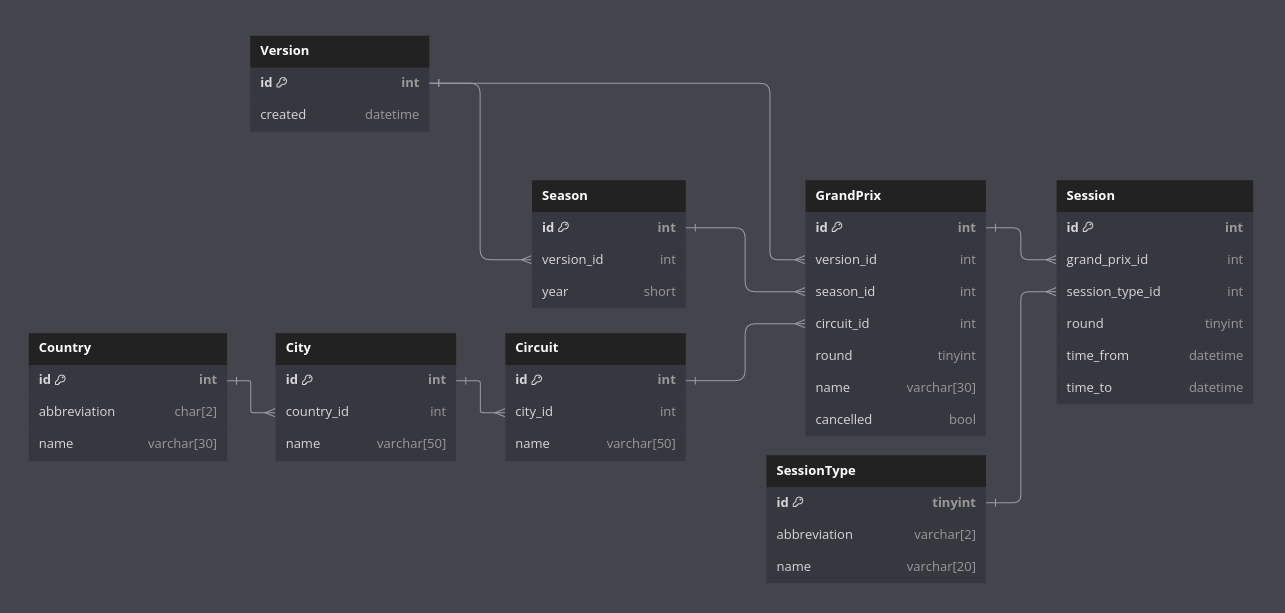
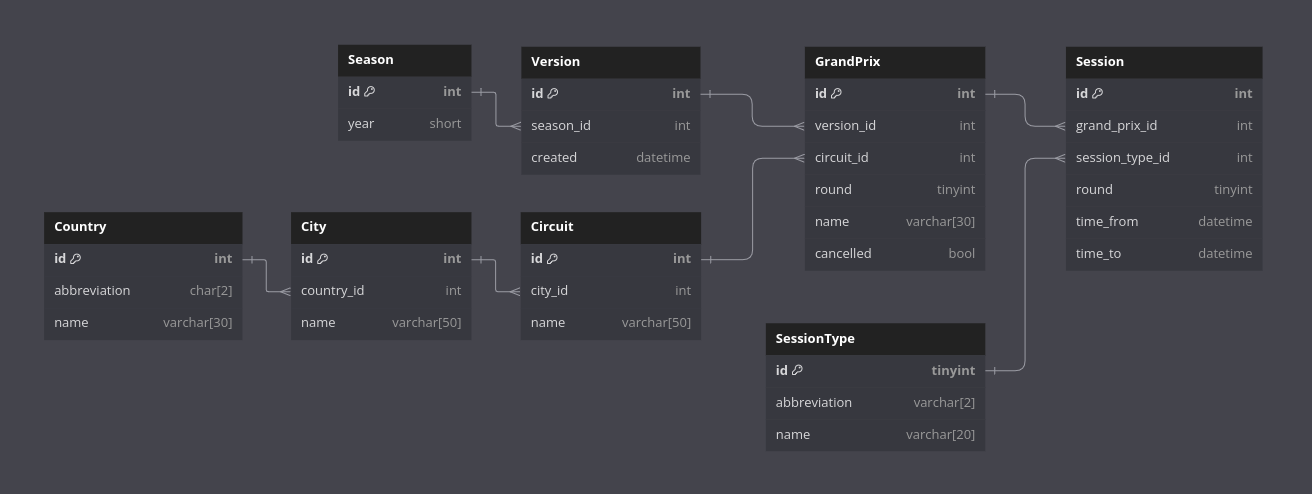
simplified database model
added CountryModel
init SessionFactory on launch

diff --git a/src/main/java/sk/f1api/f1api/entity/Version.java b/src/main/java/sk/f1api/f1api/entity/Version.java
@@ -24,8 +24,12 @@ public class Version implements Identifiable {
     @GeneratedValue(strategy = GenerationType.IDENTITY)
     private int id;
 
-    @OneToOne(mappedBy = "version", cascade = CascadeType.ALL)
+    @ManyToOne(cascade = CascadeType.ALL)
+    @JoinColumn(name = "season_id")
     private Season season;
+
+    @OneToMany(mappedBy = "version", cascade = CascadeType.ALL)
+    private List<GrandPrix> grandPrixes;
 
     @Column(nullable = false)
     private LocalDateTime created;
@@ -65,7 +69,7 @@ public class Version implements Identifiable {
     }
 
     public void removeDuplicity() {
-        List<GrandPrix> grandPrixes = season.getGrandPrixes();
+        List<GrandPrix> grandPrixes = this.getGrandPrixes();
 
         for (int i = 0; i < grandPrixes.size(); i++) {
             GrandPrix grandPrixI = grandPrixes.get(i);
@@ -90,8 +94,26 @@ public class Version implements Identifiable {
                 if (!grandPrixJ.getCircuit().getName().equals(grandPrixI.getCircuit().getName())) {
                     continue;
                 }
+
                 grandPrixJ.setCircuit(grandPrixI.getCircuit());
             }
         }
+    }
+
+
+
+    @Override
+    public String toString() {
+        String grandPrixesConcated = "";
+        if (grandPrixes == null || grandPrixes.isEmpty()) {
+            grandPrixesConcated = "null";
+        } else {
+            for (GrandPrix grandPrix : grandPrixes) {
+                grandPrixesConcated += grandPrix + ", ";
+            }
+            grandPrixesConcated = grandPrixesConcated.substring(0, grandPrixesConcated.length() - 3);
+        }
+
+        return String.format("Season(id='%s', created='%s', grandPrixes=[%s])", id, created, grandPrixesConcated);
     }
 }

diff --git a/src/main/java/sk/f1api/f1api/entity/Season.java b/src/main/java/sk/f1api/f1api/entity/Season.java
@@ -22,11 +22,7 @@ public class Season implements Identifiable {
     private int id;
 
     @OneToMany(mappedBy = "season", cascade = CascadeType.ALL)
-    private List<GrandPrix> grandPrixes;
-
-    @ManyToOne
-    @JoinColumn(name = "version_id")
-    private Version version;
+    private List<Version> versions;
 
     @Column(nullable = false, columnDefinition = "SMALLINT")
     private Short year;
@@ -39,8 +35,7 @@ public class Season implements Identifiable {
 
         criteria.select(root).where(
             cb.and(
-                cb.equal(root.get("year"), year), 
-                cb.equal(root.get("version"), version)
+                cb.equal(root.get("year"), year)
             )
         );
 
@@ -52,10 +47,25 @@ public class Season implements Identifiable {
         CriteriaQuery<Season> criteriaQuery = criteriaBuilder.createQuery(Season.class);
         Root<Season> root = criteriaQuery.from(Season.class);
 
-        root.fetch("grandPrixes", JoinType.LEFT);
+        root.fetch("versions", JoinType.LEFT);
 
         criteriaQuery.select(root);
 
         return session.createQuery(criteriaQuery).getResultList();
+    }
+
+    @Override
+    public String toString() {
+        String versionsConcated = "";
+        if (versions == null || versions.isEmpty()) {
+            versionsConcated = "null";
+        } else {
+            for (Version version : versions) {
+                versionsConcated += version + ", ";
+            }
+            versionsConcated = versionsConcated.substring(0, versionsConcated.length() - 3);
+        }
+
+        return String.format("Season(id='%s', year='%d', versions=[%s])", id, year, versionsConcated);
     }
 }

diff --git a/src/main/java/sk/f1api/f1api/scrapper/Scrapper.java b/src/main/java/sk/f1api/f1api/scrapper/Scrapper.java
@@ -11,6 +11,7 @@ import java.util.AbstractMap;
 import java.util.Map;
 import java.util.Properties;
 import java.util.ArrayList;
+import java.util.Arrays;
 import java.util.List;
 
 import org.jsoup.Jsoup;
@@ -35,15 +36,15 @@ public class Scrapper {
 		
 		Calendar f1Calendar = new Calendar();
 
-		Version version = new Version();
 		Season season = new Season();
-		season.setVersion(version);
 		season.setYear(year);
+
+		Version version = new Version();
 		
 		List<GrandPrix> grandPrixes = new ArrayList<>(f1Wiki.getNumberOfRaces());
 
 		for (int i = 1; i < f1Wiki.getNumberOfRaces() + 1; i++) {
-			GrandPrix grandPrix = new GrandPrix(version, season, (byte) i);
+			GrandPrix grandPrix = new GrandPrix(version, (byte) i);
 			
 			f1Calendar.fillEvents(grandPrix, i);
 			f1Wiki.fillGrandPrix(grandPrix, i);
@@ -56,14 +57,14 @@ public class Scrapper {
 		}
 
 		version.setSeason(season);
-		season.setGrandPrixes(grandPrixes);
+		version.setGrandPrixes(grandPrixes);
 
 		version.removeDuplicity();
-		
-		for (GrandPrix grandPrix : grandPrixes) {
-			System.out.println(grandPrix);
-		}
 
+		season.setVersions(new ArrayList<>(Arrays.asList(version)));
+
+		System.out.println(season);
+		
 		version.save(HibernateUtil.getSessionFactory().openSession());
 	}
 

diff --git a/src/main/java/sk/f1api/f1api/entity/GrandPrix.java b/src/main/java/sk/f1api/f1api/entity/GrandPrix.java
@@ -25,10 +25,6 @@ public class GrandPrix {
     private Version version;
 
     @ManyToOne(cascade = CascadeType.ALL)
-    @JoinColumn(name = "season_id")
-    private Season season;
-
-    @ManyToOne(cascade = CascadeType.ALL)
     @JoinColumn(name = "circuit_id")
     private Circuit circuit;
 
@@ -49,8 +45,7 @@ public class GrandPrix {
         
     }
 
-    public GrandPrix(Version version, Season season, Byte round) {
-        this.season = season;
+    public GrandPrix(Version version, Byte round) {
         this.version = version;
         this.round = round;
         this.circuit = new Circuit();
@@ -68,7 +63,7 @@ public class GrandPrix {
             eventsConcated = eventsConcated.substring(0, eventsConcated.length() - 3);
         }
         
-        return String.format("GrandPrix(id='%s', round='%s', name='%s', cancelled='%s', version=%s, season=%s, circuit=%s, events=[%s])", id, round, name, cancelled, version, season, circuit, eventsConcated);
+        return String.format("GrandPrix(id='%s', round='%s', name='%s', cancelled='%s', circuit=%s, events=[%s])", id, round, name, cancelled, circuit, eventsConcated);
     }
 
     public void save(Session session) {

diff --git a/src/main/java/sk/f1api/f1api/model/CalendarModel.java b/src/main/java/sk/f1api/f1api/model/CalendarModel.java
@@ -1,27 +1,31 @@
 package sk.f1api.f1api.model;
 
 import java.util.ArrayList;
+import java.util.HashMap;
 import java.util.List;
 
 import lombok.Getter;
-import lombok.Setter;
 import sk.f1api.f1api.entity.Season;
+import sk.f1api.f1api.entity.Version;
 import sk.f1api.f1api.util.HibernateUtil;
 
 @Getter
-@Setter
 public class CalendarModel {
 
 	private int year;
 
-	private List<GrandPrixModel> grandPrixes;
+	private HashMap<Byte, GrandPrixModel> grandPrixes;
 
 	public CalendarModel(Season season) {
 		this.year = season.getYear();
-		this.grandPrixes = new ArrayList<GrandPrixModel>();
+		this.grandPrixes = new HashMap<>();
 		
-		if (season.getGrandPrixes() != null) {
-			season.getGrandPrixes().forEach(grandPrix -> this.grandPrixes.add(new GrandPrixModel(grandPrix)));
+		if (season.getVersions() != null) {
+			for (Version version : season.getVersions()) {
+				if (version.getGrandPrixes() != null) {
+					version.getGrandPrixes().forEach(grandPrix -> this.grandPrixes.put(grandPrix.getRound(), new GrandPrixModel(grandPrix)));
+				}
+			}
 		}
 	}
 

diff --git a/src/main/java/sk/f1api/f1api/model/GrandPrixModel.java b/src/main/java/sk/f1api/f1api/model/GrandPrixModel.java
@@ -1,25 +1,22 @@
 package sk.f1api.f1api.model;
 
 import lombok.Getter;
-import lombok.Setter;
+import sk.f1api.f1api.entity.GrandPrix;
 
 @Getter
-@Setter
 public class GrandPrixModel {
-	
 
-    private Byte round;
+	private String name;
 
-    private String name;
+	private boolean cancelled;
 
-    private boolean cancelled;
+	private LocationModel location;
 
-	public GrandPrixModel(sk.f1api.f1api.entity.GrandPrix grandPrix) {
-		this.round = grandPrix.getRound();
+	public GrandPrixModel(GrandPrix grandPrix) {
 		this.name = grandPrix.getName();
 		this.cancelled = grandPrix.isCancelled();
 
-		System.out.println(grandPrix.getEvents());
+		this.location = new LocationModel(grandPrix.getCircuit());
 	}
 
 }

diff --git a/src/main/java/sk/f1api/f1api/controller/CalendarController.java b/src/main/java/sk/f1api/f1api/controller/CalendarController.java
@@ -30,7 +30,7 @@ public class CalendarController {
   @Autowired
   CalendarService calendarService;
 
-  @Operation(summary = "Retrieve all Calendars", tags = { "calendars", "get", "filter" })
+  @Operation(summary = "Retrieve all Calendars", tags = { "get", "filter" })
   @ApiResponses({
       @ApiResponse(responseCode = "200", content = {
           @Content(schema = @Schema(implementation = CalendarModel.class), mediaType = "application/json") }),

diff --git a/src/main/java/sk/f1api/f1api/model/LocationModel.java b/src/main/java/sk/f1api/f1api/model/LocationModel.java
@@ -1,0 +1,22 @@
+package sk.f1api.f1api.model;
+
+import lombok.Getter;
+import sk.f1api.f1api.entity.Circuit;
+
+@Getter
+public class LocationModel {
+
+	private String circuit;
+
+	private String city;
+
+	private CountryModel country;
+
+	public LocationModel(Circuit circuit) {
+		this.circuit = circuit.getName();
+		this.city = circuit.getCity().getName();
+
+		this.country = new CountryModel(circuit.getCity());
+	}
+	
+}

diff --git a/src/main/java/sk/f1api/f1api/F1ApiApplication.java b/src/main/java/sk/f1api/f1api/F1ApiApplication.java
@@ -3,11 +3,14 @@ package sk.f1api.f1api;
 import org.springframework.boot.SpringApplication;
 import org.springframework.boot.autoconfigure.SpringBootApplication;
 
+import sk.f1api.f1api.util.HibernateUtil;
+
 @SpringBootApplication
 public class F1ApiApplication {
 
 	public static void main(String[] args) {
 		SpringApplication.run(F1ApiApplication.class, args);
+		HibernateUtil.getSessionFactory();
 	}
 
 }

diff --git a/src/main/java/sk/f1api/f1api/model/CountryModel.java b/src/main/java/sk/f1api/f1api/model/CountryModel.java
@@ -1,0 +1,18 @@
+package sk.f1api.f1api.model;
+
+import lombok.Getter;
+import sk.f1api.f1api.entity.City;
+
+@Getter
+public class CountryModel {
+
+	private String name;
+
+	private String abbreviation;
+
+	public CountryModel(City city) {
+		this.name = city.getCountry().getName();
+		this.abbreviation = city.getCountry().getAbbreviation();
+	}
+	
+}

diff --git a/src/main/java/sk/f1api/f1api/service/CalendarService.java b/src/main/java/sk/f1api/f1api/service/CalendarService.java
@@ -15,6 +15,10 @@ public class CalendarService {
 
   private List<CalendarModel> calendars;
 
+  public CalendarService() {
+    
+  }
+
   public void loadAll() {
     this.calendars = CalendarModel.loadAll();
   }
